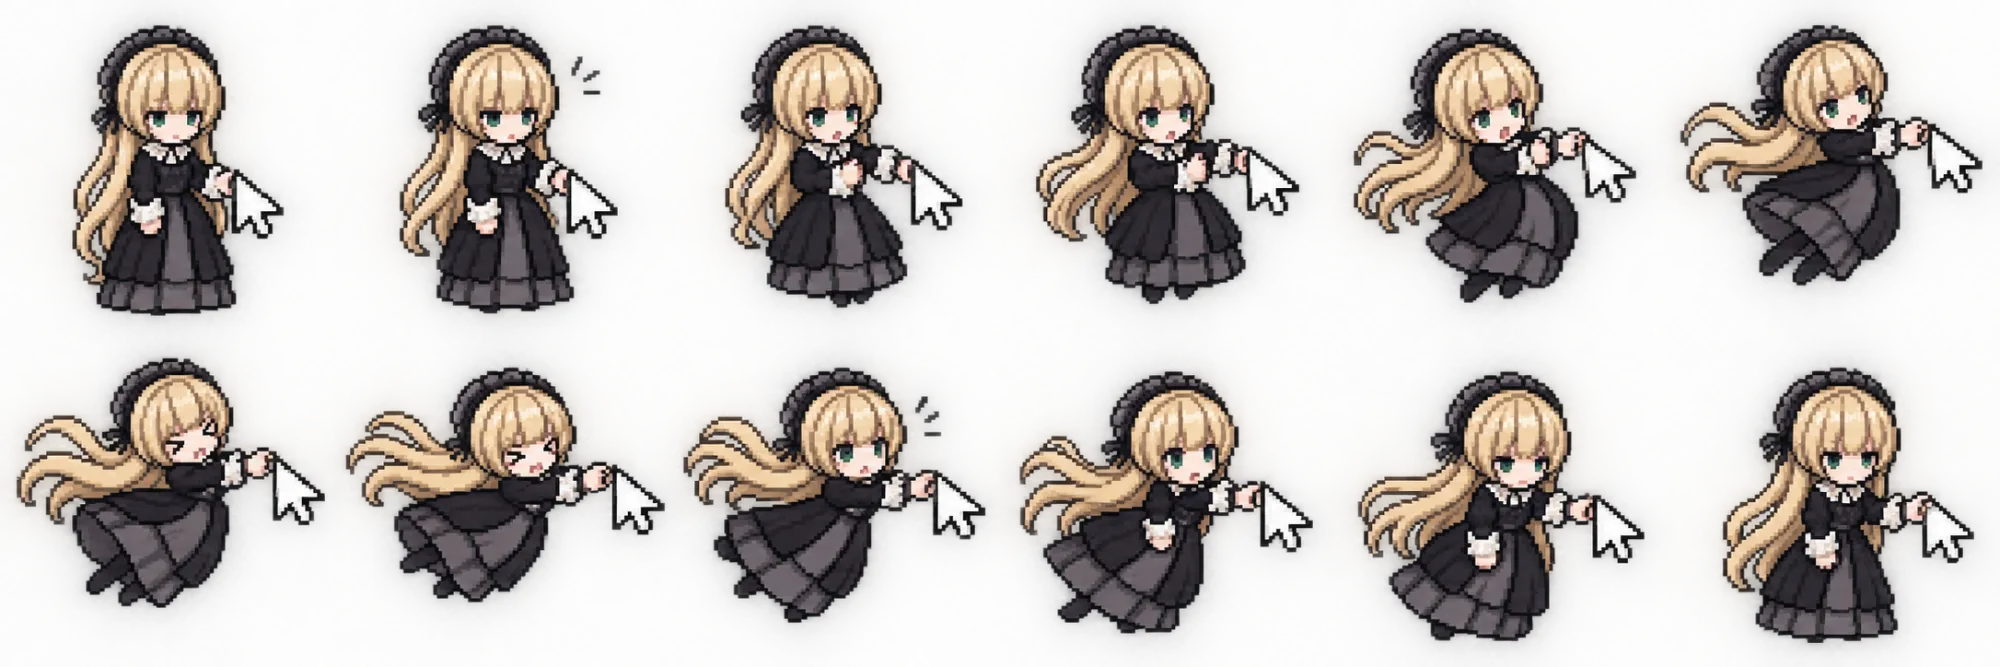
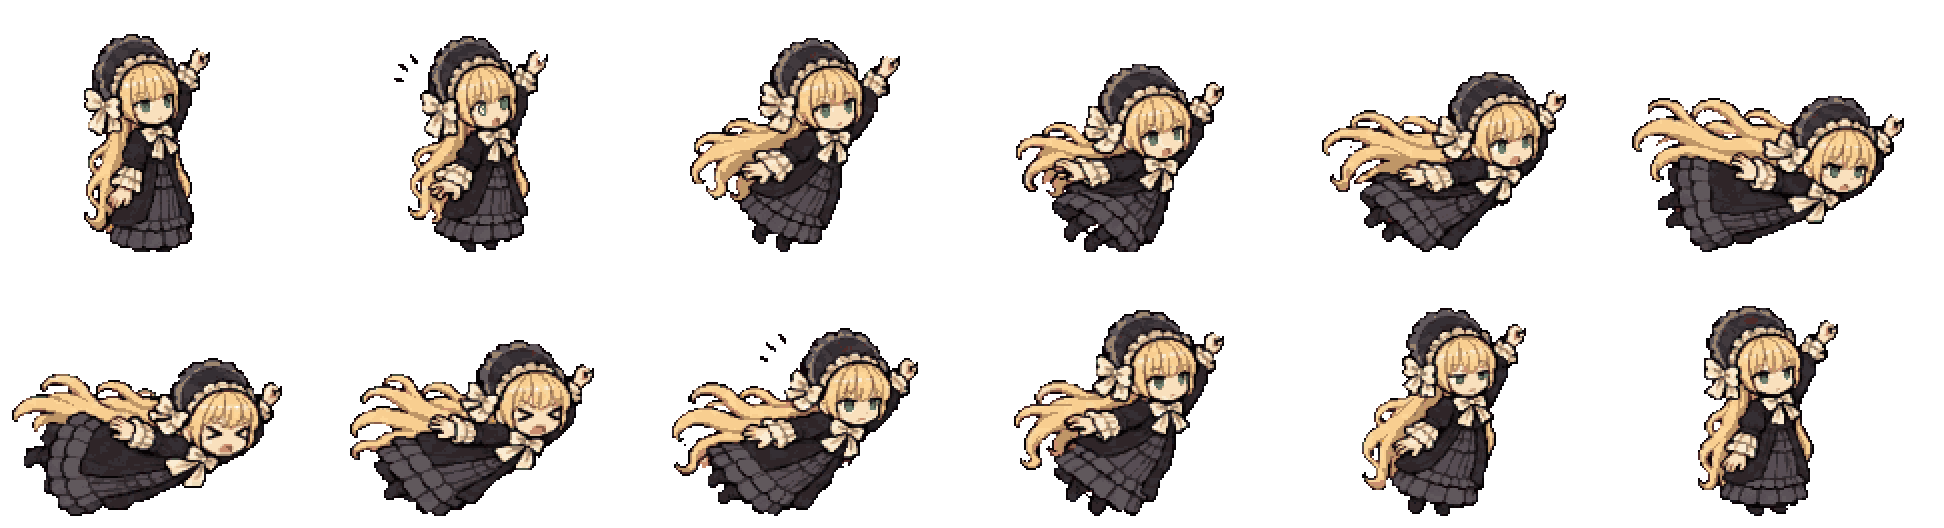
feat: sprites novos substituem os antigos em assets/source
As folhas novas de 26 animações passam a morar em
app/mascot/assets/source/, no lugar das antigas, e o montador do atlas
as usa sem precisar de --source. A 13-beirada continua com a folha
antiga até a nova ser gerada.

- postprocess_sprites.py grava as folhas prontas em assets/source e as
  lista em novos.json; as prévias vão para sprites_novos/previa/.
- build_mascot_sprites.py lê novos.json e trata essas folhas como já
  prontas (sem reamostrar); as outras seguem o caminho antigo. --source
  continua aceito, com assets/source como reserva.
- O atlas gerado é idêntico ao do commit anterior.

diff --git a/scripts/build_mascot_sprites.py b/scripts/build_mascot_sprites.py
@@ -15,8 +15,12 @@ the floor shadows of the jump and fall sheets, cuts the frames at the
 emptiest columns near the even grid, puts every sheet on the same scale (the
 sheets draw her at different sizes) and finds each frame's anchor.
 
---source DIR reads sheets made by postprocess_sprites.py instead (already cut
-out, on one pixel grid and one scale, so nothing is resampled here).
+Sheets made by postprocess_sprites.py (listed in source/novos.json) are
+already cut out, on one pixel grid and at one scale: they are only cut into
+frames and anchored, never resampled.
+
+--source DIR reads the sheets from another folder; a sheet missing there
+comes from assets/source.
 
 --debug DIR also writes a contact sheet per animation with the anchors marked
 and a line-up of one frame of each animation at the common scale.
@@ -36,19 +40,14 @@ from PIL import Image, ImageDraw
 
 ROOT = Path(__file__).resolve().parents[1]
 SOURCE = ROOT / "app" / "mascot" / "assets" / "source"
-ORIGINAL = SOURCE       # the hand-tuned sheets, the fallback for --source
+ORIGINAL = SOURCE       # assets/source, where a sheet missing from --source comes from
 OUT_IMAGE = ROOT / "app" / "mascot" / "assets" / "victorique.webp"
 OUT_JSON = ROOT / "app" / "mascot" / "assets" / "victorique.json"
 
 STAND_HEIGHT = 240      # standing figure height in the atlas, in px
-PREPARED = False        # sheets already cut out and scaled (--source)
-
-
-def is_prepared(sheet: "Sheet") -> bool:
-    """This sheet comes from the --source folder (a sheet missing there falls
-    back to the original one in assets/source, cut and scaled as before)."""
-    return PREPARED and (SOURCE / sheet.file).exists()
-POOL = 4                # labeling runs on a 4x4 max-pooled mask
+MANIFEST = "novos.json"  # in a source folder: the sheets postprocess_sprites.py made
+PREPARED: set = set()    # file names of those sheets (filled by main)
+POOL = 4              # labeling runs on a 4x4 max-pooled mask
 MIN_PART = 4            # pooled cells; smaller specks are noise
 
 
@@ -110,6 +109,21 @@ SHEETS: List[Sheet] = [
     Sheet("tantrum", "27-birra.webp", 1, 8, "white", white_low=215, facing="right",
           main_only=True),
 ]
+
+
+def sheet_path(sheet: Sheet) -> Path:
+    """Where the sheet is read from: the --source folder, else assets/source."""
+    path = SOURCE / sheet.file
+    return path if path.exists() else ORIGINAL / sheet.file
+
+
+def prepared_in(folder: Path, every: bool = False) -> set:
+    """Sheets of `folder` made by postprocess_sprites.py: those its manifest
+    lists (or, with `every` and no manifest, all of the sheets it has)."""
+    manifest = folder / MANIFEST
+    if manifest.exists():
+        return set(json.loads(manifest.read_text(encoding="utf-8")))
+    return {s.file for s in SHEETS if (folder / s.file).exists()} if every else set()
 
 
 # ----------------- Masks -----------------
@@ -249,13 +263,9 @@ class Frame:
 
 
 def frames_of(sheet: Sheet) -> List[List[Frame]]:
-    if is_prepared(sheet):
+    if sheet.file in PREPARED:
         sheet = replace(sheet, background="alpha", threshold=128, shadow=False)
-        img = Image.open(SOURCE / sheet.file)
-    else:
-        if PREPARED:
-            print(f"  {sheet.file}: not in {SOURCE.name}/, using the original sheet")
-        img = Image.open(ORIGINAL / sheet.file)
+    img = Image.open(sheet_path(sheet))
     mask, rgba = sheet_mask(sheet, img)
     mask = drop_specks(mask)
     h, w = mask.shape
@@ -402,11 +412,11 @@ def build(debug: Optional[Path] = None) -> Dict:
             ref = sheet.ref_height
         else:
             ref = float(np.mean([flat[i].box[3] - flat[i].box[1] for i in sheet.ref]))
-        prepared = is_prepared(sheet)
+        prepared = sheet.file in PREPARED
         scale = 1.0 if prepared else STAND_HEIGHT / ref
         entries = []
         # postprocess_sprites.py already erased the drawn cursor and saved its tips
-        tips_file = SOURCE / (sheet.file.rsplit(".", 1)[0] + ".cursor.json")
+        tips_file = sheet_path(sheet).with_suffix(".cursor.json")
         tips = (json.loads(tips_file.read_text(encoding="utf-8"))
                 if prepared and sheet.anchor_x == "cursor" else None)
         index = 0
@@ -505,9 +515,13 @@ def main(argv: Optional[List[str]] = None) -> int:
     parser.add_argument("--source", type=Path,
                         help="folder with sheets made by postprocess_sprites.py")
     args = parser.parse_args(argv)
+    global SOURCE
     if args.source:
-        global SOURCE, PREPARED
-        SOURCE, PREPARED = args.source.resolve(), True
+        SOURCE = args.source.resolve()
+    PREPARED.update(prepared_in(ORIGINAL))
+    if SOURCE != ORIGINAL:
+        PREPARED.difference_update(s.file for s in SHEETS if (SOURCE / s.file).exists())
+        PREPARED.update(prepared_in(SOURCE, every=True))
     data = build(args.debug)
     total = sum(len(a["frames"]) for a in data["anims"].values())
     print(f"{len(data['anims'])} animações, {total} quadros -> {OUT_IMAGE.relative_to(ROOT)}")

diff --git a/scripts/postprocess_sprites.py b/scripts/postprocess_sprites.py
@@ -6,7 +6,9 @@ build_mascot_sprites.py espera.
     .venv\\Scripts\\python.exe scripts\\postprocess_sprites.py status
     .venv\\Scripts\\python.exe scripts\\postprocess_sprites.py processar [--so 01 12 ...]
 
-Pastas (em sprites_novos/): gerado/ (suas imagens), pronto/ (saída), paleta.json.
+Pastas: sprites_novos/gerado/ (suas imagens), sprites_novos/paleta.json e
+sprites_novos/previa/ (prévias); as folhas prontas substituem as do mascote em
+app/mascot/assets/source/, listadas em novos.json para o montador do atlas.
 Os nomes esperados estão em PROMPTS.md (ou em `status`).
 
 O que `processar` faz com cada folha:
@@ -40,7 +42,8 @@ import sprite_plan as P
 ROOT = Path(__file__).resolve().parents[1]
 BASE = ROOT / "sprites_novos"
 GERADO = BASE / "gerado"
-PRONTO = BASE / "pronto"
+PRONTO = B.SOURCE                   # as folhas do mascote (app/mascot/assets/source)
+PREVIA = BASE / "previa"
 PALETA = BASE / "paleta.json"
 
 LOGICAL = 120       # altura dela em pé, em pixels de arte
@@ -306,6 +309,14 @@ def process_sheet(sheet: B.Sheet, palette: np.ndarray, tol: float, erode: int,
     return out
 
 
+def mark_prepared(file: str) -> None:
+    """Lists the sheet in novos.json, so the atlas builder takes it as it is."""
+    manifest = PRONTO / B.MANIFEST
+    names = set(json.loads(manifest.read_text(encoding="utf-8"))) if manifest.exists() else set()
+    names.add(file)
+    manifest.write_text(json.dumps(sorted(names), indent=1) + "\n", encoding="utf-8")
+
+
 def preview(img: Image.Image, path: Path) -> None:
     bg = Image.new("RGBA", img.size, (70, 120, 80, 255))
     bg.alpha_composite(img)
@@ -371,14 +382,14 @@ def cmd_processar(args: argparse.Namespace) -> int:
         if img is None:
             continue
         img.save(PRONTO / sheet.file, "WEBP", lossless=True, method=6)
-        preview(img, PRONTO / "_previa" / (P.stem(sheet) + ".png"))
+        preview(img, PREVIA / (P.stem(sheet) + ".png"))
+        mark_prepared(sheet.file)
         done += 1
     for line in warn:
         print("AVISO", line)
     print(f"\n{done} folhas -> {PRONTO.relative_to(ROOT)}")
     if done:
-        print("Próximo: scripts\\build_mascot_sprites.py --source sprites_novos\\pronto "
-              "--debug sprites_novos\\debug")
+        print("Próximo: scripts\\build_mascot_sprites.py --debug sprites_novos\\debug")
     return 0
 
 

diff --git a/scripts/sprite_prompts.py b/scripts/sprite_prompts.py
@@ -438,8 +438,8 @@ Gerado por `scripts/sprite_prompts.py` (edite o personagem e o estilo lá e rode
 2. **Paleta.** Rode `.venv\\Scripts\\python.exe scripts\\postprocess_sprites.py paleta`. Ela tira ~36 cores da mestra, e todos os sprites serão forçados a usar só essas cores (é isso que une o estilo).
 3. **Cada imagem abaixo.** Abra um chat novo no ChatGPT (chats longos fazem o desenho derivar), anexe o que o item pede, cole o prompt e escolha formato horizontal 3:2 se o ChatGPT oferecer. Salve em `sprites_novos/gerado/` com o nome indicado. Gere de novo só as imagens que saírem ruins.
 4. **Conferir o andamento.** `scripts\\postprocess_sprites.py status` mostra o que falta.
-5. **Pós-processar.** `scripts\\postprocess_sprites.py processar` limpa o fundo, alinha a grade de pixels, aplica a paleta, junta as partes e escreve as folhas prontas em `sprites_novos/pronto/` (com prévias em `pronto/_previa/`).
-6. **Montar o atlas do mascote.** `scripts\\build_mascot_sprites.py --source sprites_novos\\pronto --debug sprites_novos\\debug`.
+5. **Pós-processar.** `scripts\\postprocess_sprites.py processar` limpa o fundo, alinha a grade de pixels, aplica a paleta, junta as partes e grava as folhas prontas no lugar das antigas, em `app/mascot/assets/source/` (prévias em `sprites_novos/previa/`).
+6. **Montar o atlas do mascote.** `scripts\\build_mascot_sprites.py --debug sprites_novos\\debug`.
 
 ## Dicas
 

diff --git a/sprites_novos/PROMPTS.md b/sprites_novos/PROMPTS.md
@@ -8,8 +8,8 @@ Gerado por `scripts/sprite_prompts.py` (edite o personagem e o estilo lá e rode
 2. **Paleta.** Rode `.venv\Scripts\python.exe scripts\postprocess_sprites.py paleta`. Ela tira ~36 cores da mestra, e todos os sprites serão forçados a usar só essas cores (é isso que une o estilo).
 3. **Cada imagem abaixo.** Abra um chat novo no ChatGPT (chats longos fazem o desenho derivar), anexe o que o item pede, cole o prompt e escolha formato horizontal 3:2 se o ChatGPT oferecer. Salve em `sprites_novos/gerado/` com o nome indicado. Gere de novo só as imagens que saírem ruins.
 4. **Conferir o andamento.** `scripts\postprocess_sprites.py status` mostra o que falta.
-5. **Pós-processar.** `scripts\postprocess_sprites.py processar` limpa o fundo, alinha a grade de pixels, aplica a paleta, junta as partes e escreve as folhas prontas em `sprites_novos/pronto/` (com prévias em `pronto/_previa/`).
-6. **Montar o atlas do mascote.** `scripts\build_mascot_sprites.py --source sprites_novos\pronto --debug sprites_novos\debug`.
+5. **Pós-processar.** `scripts\postprocess_sprites.py processar` limpa o fundo, alinha a grade de pixels, aplica a paleta, junta as partes e grava as folhas prontas no lugar das antigas, em `app/mascot/assets/source/` (prévias em `sprites_novos/previa/`).
+6. **Montar o atlas do mascote.** `scripts\build_mascot_sprites.py --debug sprites_novos\debug`.
 
 ## Dicas
 
